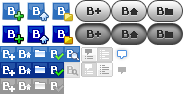
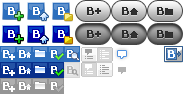
サイドバーアイコン

Changed region(s): [[0.8743, 0.4894, 1.0, 0.6809]]

diff --git a/chrome/content/toolbar.css b/chrome/content/toolbar.css
@@ -58,7 +58,8 @@ toolbar[iconsize="small"] #hBookmarkDropdownButton:active {
 }
 
 #hBookmarkToolbar > [anonid="sidebarToggleButton"] {
-  list-style-image: url("chrome://hatenabookmark/skin/images/favicon.ico");
+  list-style-image: url("chrome://hatenabookmark/skin/images/buttons.png");
+  -moz-image-region: rect(46px 183px 62px 164px);
   cursor: pointer;
 }
 
